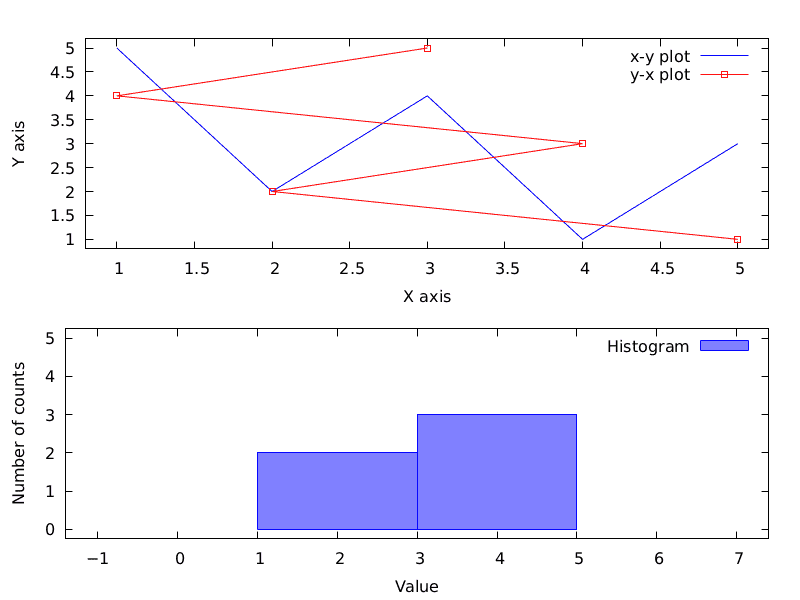
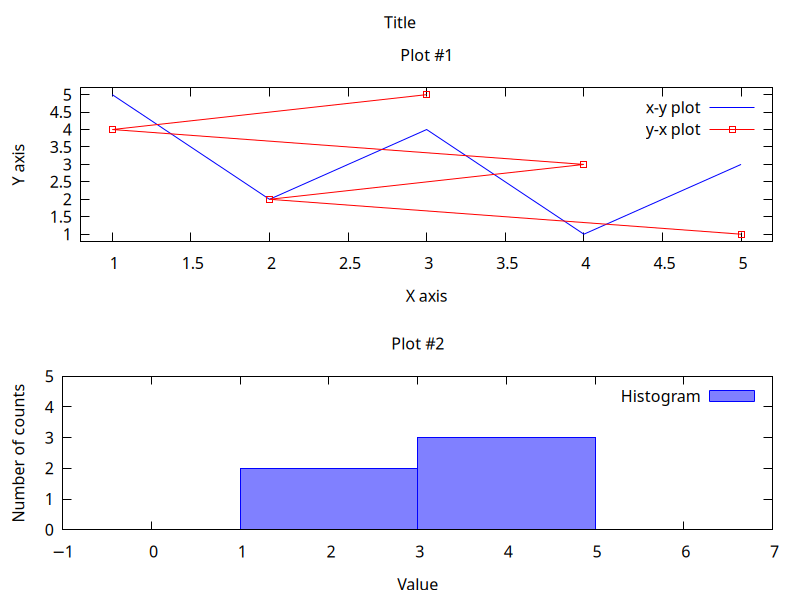
Add Gnuplot.set_title

diff --git a/gplot++.h b/gplot++.h
@@ -28,6 +28,8 @@
  *
  * Version history
  *
+ * - 0.6.0 (2023/01/13): add `set_title` method
+ *
  * - 0.5.0 (2021/12/02): use a smarter algorithm to specify ranges
  *                       add `redirect_to_dumb` (and TerminalType enum)
  *
@@ -254,6 +256,13 @@ public:
     return sendcommand(os);
   }
 
+  /* Set the title of the plot */
+  bool set_title(const std::string &title) {
+	std::stringstream os;
+	os << "set title '" << escape_quotes(title) << "'";
+	return sendcommand(os);
+  }
+  
   /* Set the label on the X axis */
   bool set_xlabel(const std::string &label) {
     std::stringstream os;

diff --git a/README.md b/README.md
@@ -127,6 +127,7 @@ int main(void) {
   plt.multiplot(2, 1, "Title");
 
   // Plot #1
+  plt.set_title("Plot #1");
   plt.set_xlabel("X axis");
   plt.set_ylabel("Y axis");
   plt.plot(x, y, "x-y plot");
@@ -134,6 +135,7 @@ int main(void) {
   plt.show(); // Always call "show"!
 
   // Plot #2
+  plt.set_title("Plot #2");
   plt.set_xlabel("Value");
   plt.set_ylabel("Number of counts");
   plt.histogram(y, 2, "Histogram");
